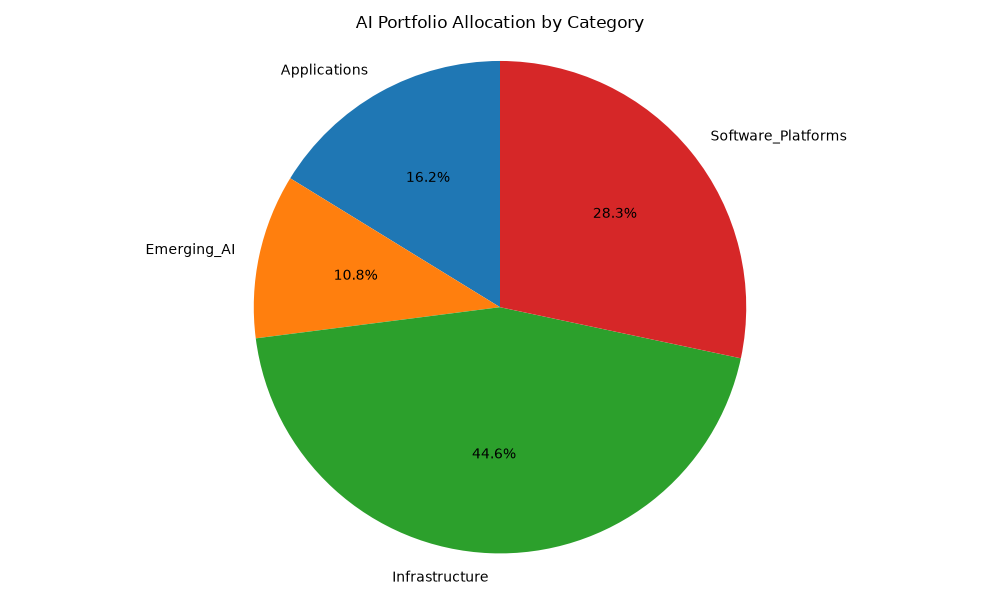
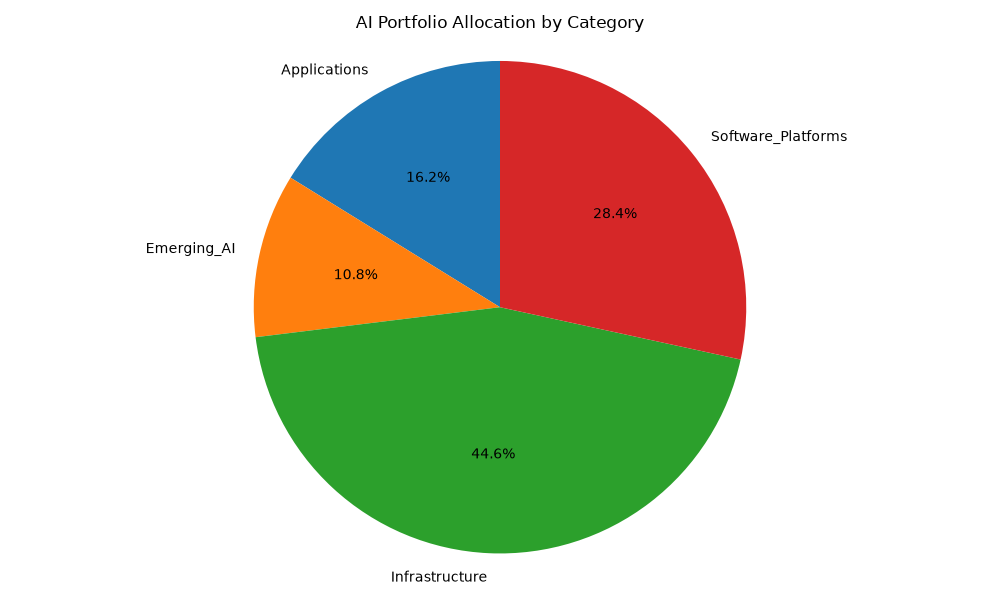
Auto-update AI tracker dashboard

diff --git a/docs/ai.html b/docs/ai.html
@@ -33,14 +33,14 @@
             
             <div class="dashboard-section">
                 <h2>Portfolio Summary</h2>
-                <p>Last Updated: 2026-09-12 03:21:28</p>
-                <p>Total Portfolio Value: <strong>$214,804.35</strong> | 
-                   Overall Performance: <strong class="negative">
-                   -1.46%</strong></p>
+                <p>Last Updated: 2026-09-13 03:26:08</p>
+                <p>Total Portfolio Value: <strong>$216,584.85</strong> | 
+                   Overall Performance: <strong class="positive">
+                   +0.10%</strong></p>
                 
                 <div class="insights">
                     <h3>Key Insights</h3>
-                    <ul><li>Portfolio value: $214,804.35, Performance: -1.46%</li><li>Top performers: CRM (+20.67%), META (+8.30%), TSLA (+6.94%)</li><li>Underperformers: ASML (-8.68%), PLTR (-7.35%), GOOGL (-3.91%)</li><li>Best category: Applications (+7.62%), 16.2% of portfolio</li><li>AI high potential: CRM (AI score: 10.0, 3m: +50.27%), MSFT (AI score: 10.0, 3m: +25.27%)</li></ul>
+                    <ul><li>Portfolio value: $216,584.85, Performance: +0.10%</li><li>Top performers: CRM (+26.25%), META (+9.86%), TSLA (+6.77%)</li><li>Underperformers: ASML (-7.91%), PLTR (-3.91%), NVDA (-2.94%)</li><li>Best category: Applications (+8.32%), 16.2% of portfolio</li><li>AI high potential: CRM (AI score: 10.0, 3m: +59.80%), MSFT (AI score: 10.0, 3m: +31.05%)</li></ul>
                 </div>
             </div>
             
@@ -65,10 +65,10 @@
       <td>TSM</td>
       <td>Taiwan Semiconductor Manufactur</td>
       <td>100</td>
-      <td>$428.03</td>
-      <td>$42,803.00</td>
-      <td>-0.57%</td>
-      <td>+2.64%</td>
+      <td>$433.24</td>
+      <td>$43,324.00</td>
+      <td>+1.62%</td>
+      <td>+1.01%</td>
       <td>Infrastructure</td>
       <td>Asia</td>
     </tr>
@@ -76,10 +76,10 @@
       <td>ASML</td>
       <td>ASML Holding N.V. - New York Re</td>
       <td>25</td>
-      <td>$1,687.43</td>
-      <td>$42,185.75</td>
-      <td>-8.68%</td>
-      <td>+2.51%</td>
+      <td>$1,698.30</td>
+      <td>$42,457.50</td>
+      <td>-7.91%</td>
+      <td>-0.97%</td>
       <td>Infrastructure</td>
       <td>Europe</td>
     </tr>
@@ -87,10 +87,10 @@
       <td>MSFT</td>
       <td>Microsoft Corporation</td>
       <td>75</td>
-      <td>$492.44</td>
-      <td>$36,933.00</td>
-      <td>-0.71%</td>
-      <td>-3.47%</td>
+      <td>$495.63</td>
+      <td>$37,172.25</td>
+      <td>+0.23%</td>
+      <td>-0.81%</td>
       <td>Software_Platforms</td>
       <td>US</td>
     </tr>
@@ -98,10 +98,10 @@
       <td>META</td>
       <td>Meta Platforms, Inc.</td>
       <td>40</td>
-      <td>$644.38</td>
-      <td>$25,775.20</td>
-      <td>+8.30%</td>
-      <td>+5.52%</td>
+      <td>$648.03</td>
+      <td>$25,921.20</td>
+      <td>+9.86%</td>
+      <td>+5.07%</td>
       <td>Applications</td>
       <td>US</td>
     </tr>
@@ -109,10 +109,10 @@
       <td>GOOGL</td>
       <td>Alphabet Inc.</td>
       <td>50</td>
-      <td>$332.60</td>
-      <td>$16,630.00</td>
-      <td>-3.91%</td>
-      <td>-2.82%</td>
+      <td>$338.50</td>
+      <td>$16,925.00</td>
+      <td>-2.08%</td>
+      <td>+0.01%</td>
       <td>Software_Platforms</td>
       <td>US</td>
     </tr>
@@ -120,10 +120,10 @@
       <td>PLTR</td>
       <td>Palantir Technologies Inc.</td>
       <td>100</td>
-      <td>$165.86</td>
-      <td>$16,586.00</td>
-      <td>-7.35%</td>
-      <td>-9.13%</td>
+      <td>$167.23</td>
+      <td>$16,723.00</td>
+      <td>-3.91%</td>
+      <td>-4.07%</td>
       <td>Emerging_AI</td>
       <td>US</td>
     </tr>
@@ -131,10 +131,10 @@
       <td>NVDA</td>
       <td>NVIDIA Corporation</td>
       <td>50</td>
-      <td>$218.36</td>
-      <td>$10,918.00</td>
-      <td>-2.97%</td>
-      <td>-4.31%</td>
+      <td>$218.29</td>
+      <td>$10,914.50</td>
+      <td>-2.94%</td>
+      <td>-5.13%</td>
       <td>Infrastructure</td>
       <td>US</td>
     </tr>
@@ -142,10 +142,10 @@
       <td>TSLA</td>
       <td>Tesla, Inc.</td>
       <td>25</td>
-      <td>$363.56</td>
-      <td>$9,089.00</td>
-      <td>+6.94%</td>
-      <td>-3.40%</td>
+      <td>$365.44</td>
+      <td>$9,136.00</td>
+      <td>+6.77%</td>
+      <td>+3.21%</td>
       <td>Applications</td>
       <td>US</td>
     </tr>
@@ -153,10 +153,10 @@
       <td>CRM</td>
       <td>Salesforce, Inc.</td>
       <td>30</td>
-      <td>$243.00</td>
-      <td>$7,290.00</td>
-      <td>+20.67%</td>
-      <td>-8.10%</td>
+      <td>$247.72</td>
+      <td>$7,431.60</td>
+      <td>+26.25%</td>
+      <td>-4.44%</td>
       <td>Software_Platforms</td>
       <td>US</td>
     </tr>
@@ -164,10 +164,10 @@
       <td>SNOW</td>
       <td>Snowflake Inc.</td>
       <td>20</td>
-      <td>$329.72</td>
-      <td>$6,594.40</td>
-      <td>-2.27%</td>
-      <td>-7.50%</td>
+      <td>$328.99</td>
+      <td>$6,579.80</td>
+      <td>+0.02%</td>
+      <td>-2.43%</td>
       <td>Emerging_AI</td>
       <td>US</td>
     </tr>
